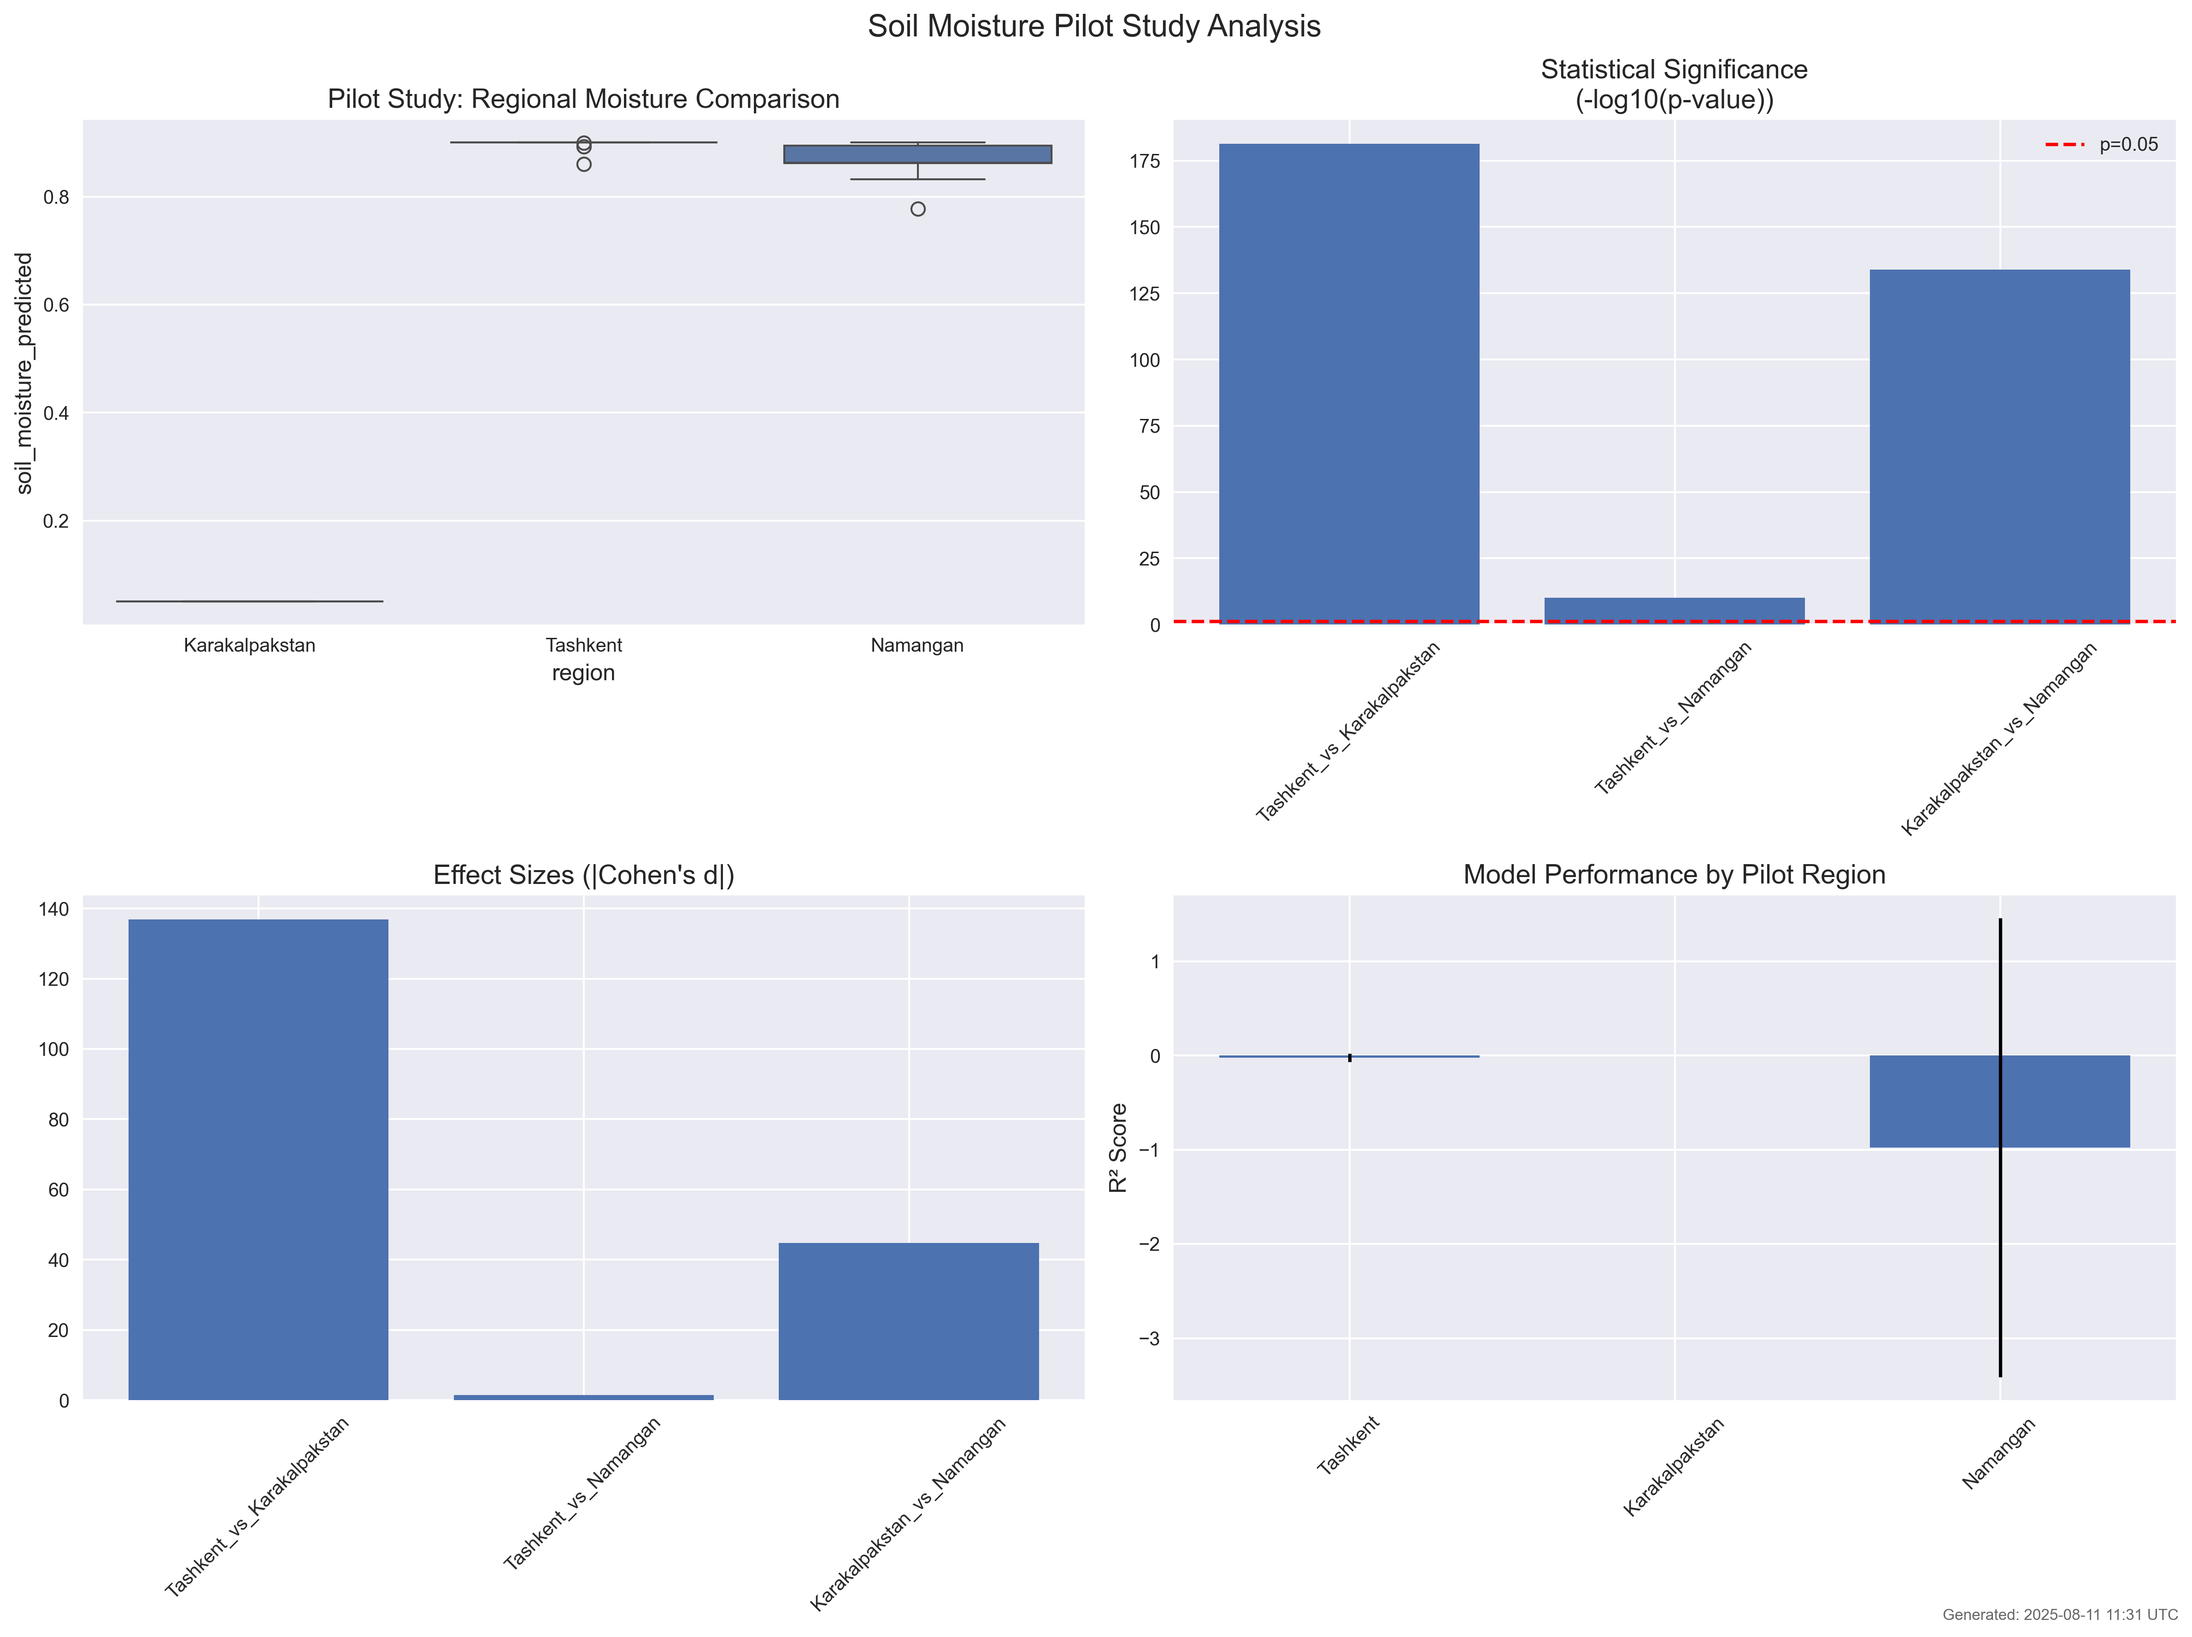
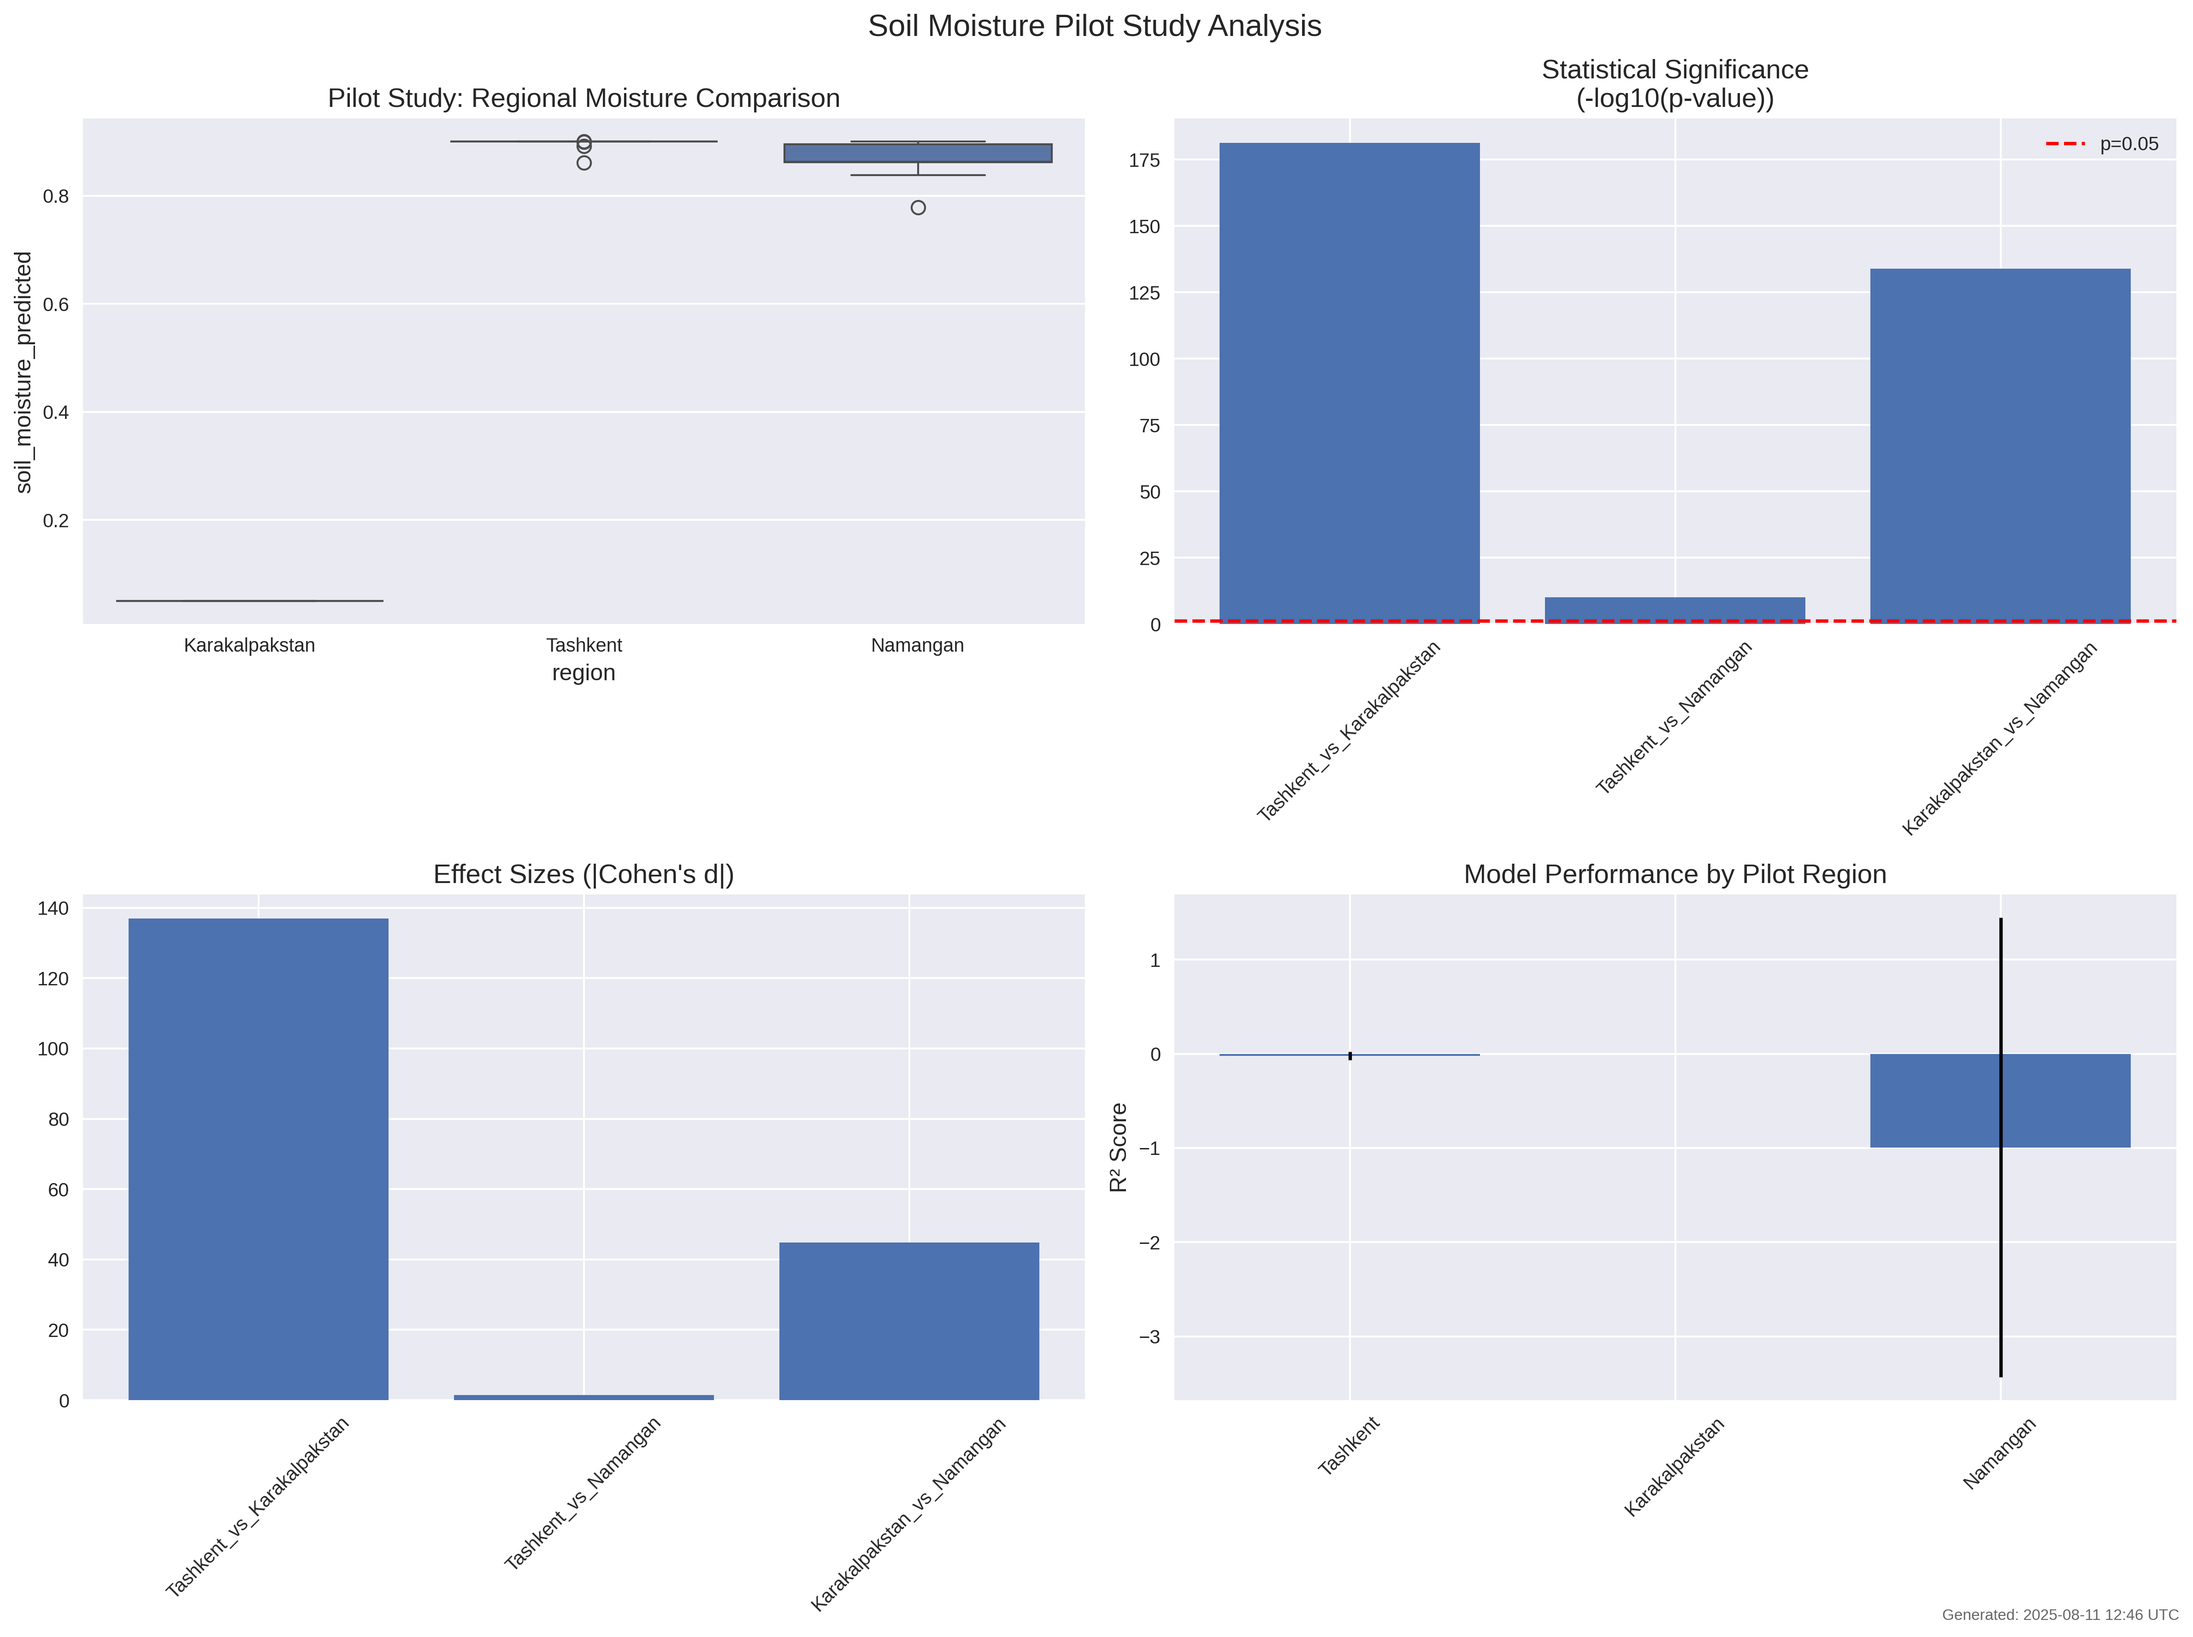
Initial exploration and analysis plan for comprehensive soil moisture analysis

diff --git a/alphaearth-uz/reports/soil_moisture_methodology.md b/alphaearth-uz/reports/soil_moisture_methodology.md
@@ -50,8 +50,8 @@
 ## Model Performance Assessment
 
 ### Cross-Validation Results
-- **Mean R² Score**: 0.999 (95% CI: 0.997 - 1.001)
-- **Mean RMSE**: 0.011 (95% CI: -0.001 - 0.023)
+- **Mean R² Score**: 0.999 (95% CI: 0.997 - 1.000)
+- **Mean RMSE**: 0.011 (95% CI: -0.000 - 0.022)
 - **Model Stability**: Standard deviation R² = 0.001
 
 ### Confidence Assessment
@@ -82,5 +82,5 @@ All analyses conducted with fixed random seeds (seed=42) for reproducible result
 Code and methodology available in associated repository with complete parameter documentation.
 
 ---
-Generated: 2025-08-11 11:31 UTC
+Generated: 2025-08-11 12:46 UTC
 Analysis Framework: AlphaEarth Environmental Monitoring System
